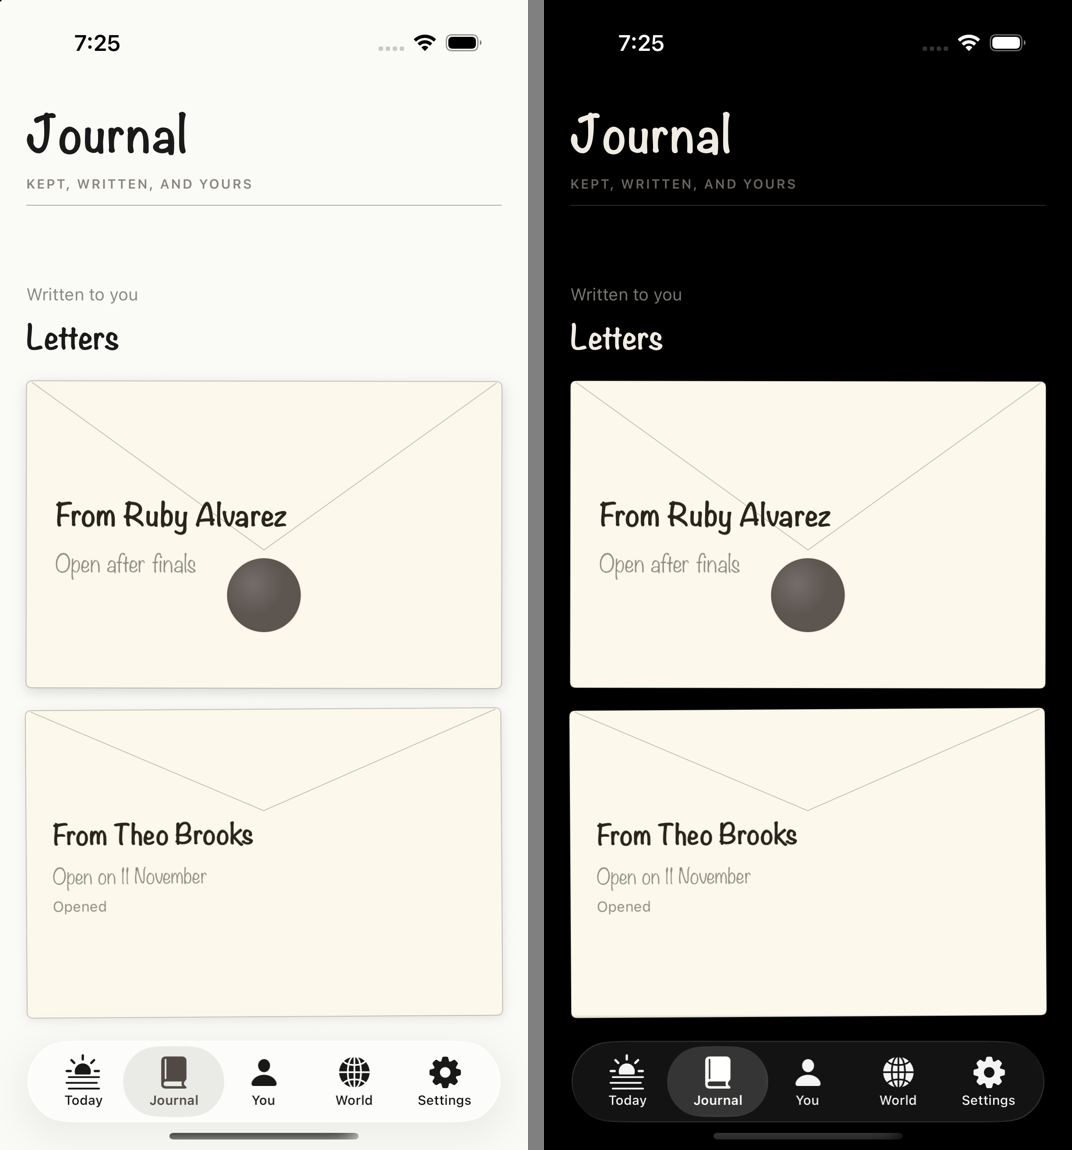
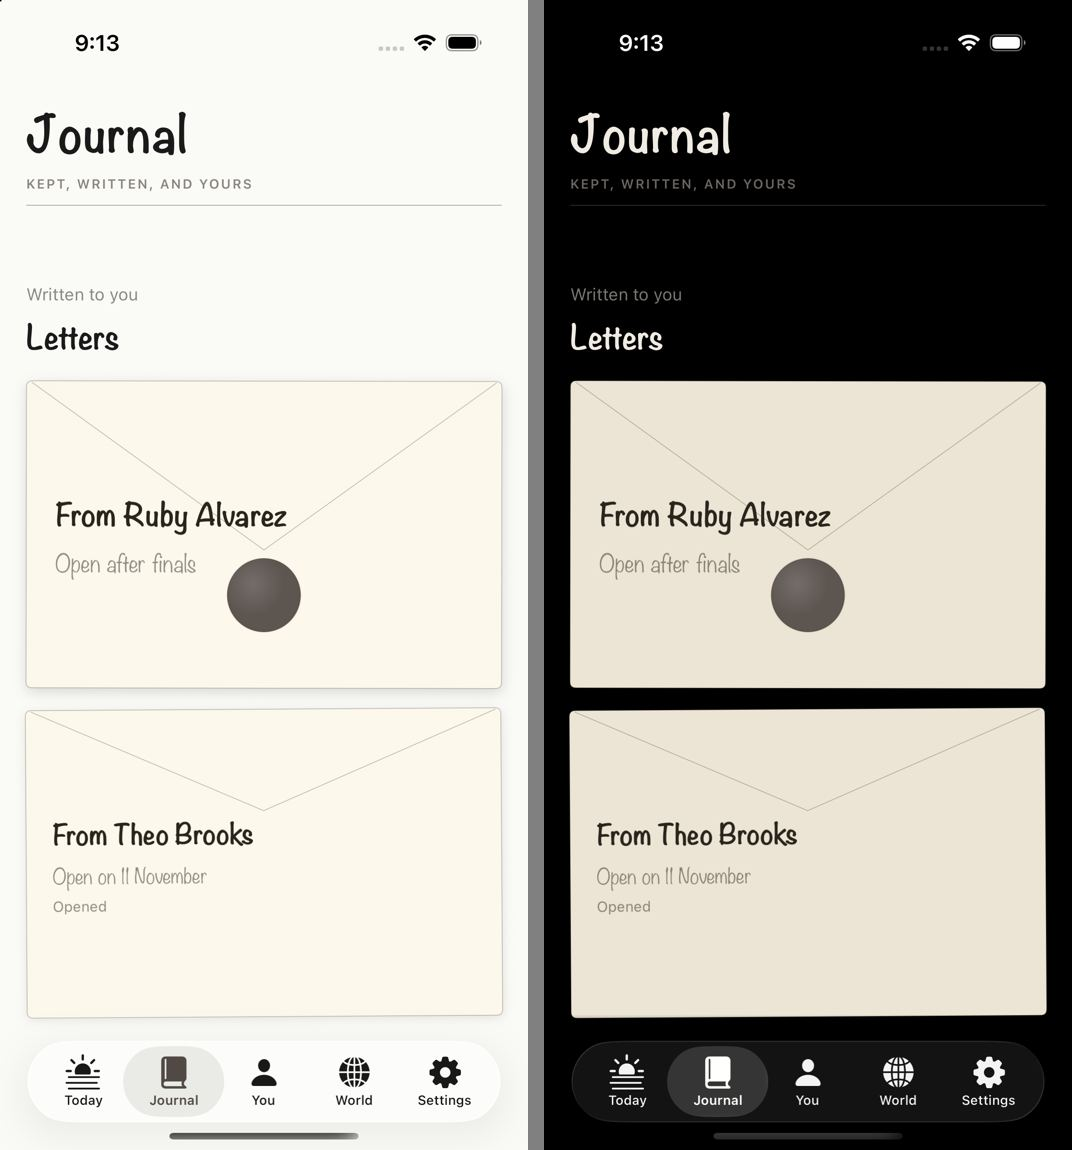
Quiet Warmth: the widget in the same look, and the rest of the screens checked
- The widget: flat floor instead of grained paper, photos straight with
  nothing round them, SF Rounded for names and labels; a hand only on the
  day's slip and a note from the board.
- Envelopes ask for the cream of the room they're in: drawn as daylight,
  they were brighter than the letter beside them in the dark.
- Setup's step dots and "Choose a photo" use the palette's accent; they
  came out the system's blue from the second step on.
- Screenshots of the screens not looked at before (stories, a member's
  profile, the opened held photo, the heart, the sealed-letter sheets,
  onboarding, setup, the circle gate, the widget, the Duo in dark), and
  CLAUDE.md says what was seen and what wasn't.

diff --git a/ios/Shared/WidgetViews.swift b/ios/Shared/WidgetViews.swift
@@ -3,9 +3,13 @@ import UIKit
 import WidgetKit
 
 // The home screen widget's three sizes (build 40), drawn from a
-// `WidgetSnapshot` at a moment. A corner of the journal left on the home
-// screen: the same paper, the same hand, the same prints, and in the dark
-// the same dark room. Nothing here reaches the network or counts anything.
+// `WidgetSnapshot` at a moment. A corner of Stanley left on the home screen,
+// in the app's own look (Quiet Warmth, build 44): the flat warm-white page
+// or the dark room's black, photos cut straight with nothing round them,
+// system type for names and labels, and a hand only where someone wrote
+// (the day's slip, a note from the board). Until build 44 it was grained
+// paper, tilted prints on photo paper, and the hand throughout. Nothing
+// here reaches the network or counts anything.
 //
 // These views are in `Shared` so a Debug build of the app can lay the three
 // sizes out on one screen to be looked at (`WidgetGallery`); the widget
@@ -16,22 +20,14 @@ enum WidgetSize {
     case small, medium, large
 }
 
-/// The page the widget is drawn on: the atmosphere's floor with the paper's
-/// grain, or the dark room's black.
+/// The page the widget is drawn on: the atmosphere's floor, flat (grained
+/// paper until build 44), or the dark room's black.
 struct WidgetBackdrop: View {
-    @Environment(\.colorScheme) private var colorScheme
     let atmosphere: String
 
     var body: some View {
-        ZStack {
-            Atmosphere.resolve(atmosphere).palette.floor
-            if colorScheme != .dark {
-                Image(uiImage: PaperGrain.tile)
-                    .resizable(resizingMode: .tile)
-                    .opacity(0.45)
-            }
-        }
-        .accessibilityHidden(true)
+        Atmosphere.resolve(atmosphere).palette.floor
+            .accessibilityHidden(true)
     }
 }
 
@@ -84,9 +80,9 @@ struct StanleyWidgetView: View {
     private var welcome: some View {
         VStack(alignment: .leading, spacing: 6) {
             Text("Stanley")
-                .font(.handFixed(size == .small ? 26 : 30, bold: true))
+                .font(.uiFixed(size == .small ? 23 : 26, .semibold))
             Text(snapshot.signedIn ? "Join a circle to begin." : "Open Stanley to see your circle.")
-                .font(.handFixed(15))
+                .font(.uiFixed(13.5))
                 .foregroundStyle(said)
                 .fixedSize(horizontal: false, vertical: true)
             Spacer(minLength: 0)
@@ -114,7 +110,7 @@ struct StanleyWidgetView: View {
                     Spacer(minLength: 4)
                 }
                 Text(phase.text)
-                    .font(.handFixed(phase.reminder == nil ? 19 : 15, bold: true))
+                    .font(.uiFixed(phase.reminder == nil ? 17 : 14, .semibold))
                     .lineLimit(phase.reminder == nil ? 3 : 2)
                     .minimumScaleFactor(0.75)
                     .fixedSize(horizontal: false, vertical: true)
@@ -127,7 +123,7 @@ struct StanleyWidgetView: View {
         } else {
             VStack(alignment: .leading, spacing: 0) {
                 Text(snapshot.circleName ?? "")
-                    .font(.handFixed(25, bold: true))
+                    .font(.uiFixed(22, .semibold))
                     .lineLimit(2)
                     .minimumScaleFactor(0.6)
                     .fixedSize(horizontal: false, vertical: true)
@@ -150,7 +146,7 @@ struct StanleyWidgetView: View {
         let print = prints.first { $0.shot.mine } ?? prints.first
         return HStack(alignment: .center, spacing: 16) {
             if let print {
-                WidgetPrint(image: print.image, takenAt: print.shot.takenAt, date: date, tilt: -3)
+                WidgetPrint(image: print.image, takenAt: print.shot.takenAt, date: date)
                     .frame(maxHeight: .infinity)
                     .padding(.vertical, 2)
                     .accessibilityLabel(print.shot.mine ? "Your photo" : "Photo by \(print.shot.name)")
@@ -187,19 +183,17 @@ struct StanleyWidgetView: View {
                 Text(snapshot.emptied(at: date)
                      ? "Nothing in the light right now."
                      : "Open Stanley to see your circle.")
-                    .font(.handFixed(17))
+                    .font(.uiFixed(15))
                     .foregroundStyle(said)
                     .frame(maxWidth: .infinity, minHeight: 120, alignment: .center)
             } else {
                 HStack(alignment: .top, spacing: 14) {
-                    ForEach(Array(prints.enumerated()), id: \.element.shot.id) { index, print in
+                    ForEach(Array(prints.enumerated()), id: \.element.shot.id) { _, print in
                         VStack(spacing: 5) {
-                            WidgetPrint(
-                                image: print.image, takenAt: print.shot.takenAt, date: date,
-                                tilt: [-2.2, 1.4, -1.2][index % 3]
-                            )
+                            WidgetPrint(image: print.image, takenAt: print.shot.takenAt, date: date)
                             Text(print.shot.mine ? "You" : print.shot.name)
-                                .font(.handFixed(14, bold: true))
+                                .font(.uiFixed(12, .medium))
+                                .foregroundStyle(quiet)
                                 .lineLimit(1)
                                 .minimumScaleFactor(0.7)
                         }
@@ -227,7 +221,7 @@ struct StanleyWidgetView: View {
         if let phase {
             caps(snapshot.circleName ?? "")
             Text(phase.text)
-                .font(.handFixed(size == .large ? 21 : 18, bold: true))
+                .font(.uiFixed(size == .large ? 19 : 16, .semibold))
                 .lineLimit(2)
                 .minimumScaleFactor(0.7)
                 .fixedSize(horizontal: false, vertical: true)
@@ -240,7 +234,7 @@ struct StanleyWidgetView: View {
             }
         } else {
             Text(snapshot.circleName ?? "")
-                .font(.handFixed(size == .large ? 26 : 22, bold: true))
+                .font(.uiFixed(size == .large ? 23 : 20, .semibold))
                 .lineLimit(1)
                 .minimumScaleFactor(0.6)
                 // The name keeps its size; a long note gives way instead.
@@ -278,7 +272,7 @@ struct StanleyWidgetView: View {
                 .frame(width: 20, height: 20)
                 .overlay(Circle().strokeBorder(palette.accent.opacity(0.7), lineWidth: 1))
             Text(posted ? "Today's moment" : "One photo waiting")
-                .font(.handFixed(15, bold: true))
+                .font(.uiFixed(13.5, .medium))
                 .lineLimit(1)
                 .minimumScaleFactor(0.8)
         }
@@ -340,19 +334,20 @@ struct StanleyWidgetView: View {
     }
 }
 
-/// A photo as a small print: 3:4 on its border of photo paper, a little
-/// crooked, faded as far as it has faded in Today. In the dark room, the
-/// photo itself, bare and straight.
+/// A photo in the widget: 3:4, cut with small corners, straight, faded as
+/// far as it has faded in Today. On the page a hairline and the faintest
+/// shadow; in the dark room nothing round it at all. (A tilted print on
+/// photo paper until build 44.)
 struct WidgetPrint: View {
     @Environment(\.colorScheme) private var colorScheme
     let image: UIImage
     let takenAt: Date
     let date: Date
-    var tilt: Double = 0
 
     var body: some View {
         let dark = colorScheme == .dark
         let fade = WidgetSnapshot.fade(takenAt, at: date)
+        let shape = RoundedRectangle(cornerRadius: 6, style: .continuous)
         Color.clear
             .aspectRatio(3.0 / 4.0, contentMode: .fit)
             .overlay {
@@ -364,11 +359,11 @@ struct WidgetPrint: View {
             .clipped()
             .saturation(1 - 0.85 * fade)
             .opacity(1 - (dark ? 0.62 : 0.82) * fade)
-            .clipShape(RoundedRectangle(cornerRadius: dark ? DarkRoom.photoCorner : PrintStock.photoCorner, style: .continuous))
-            .padding(dark ? 0 : 4)
-            .background(dark ? Color.clear : PrintStock.paper, in: RoundedRectangle(cornerRadius: 2, style: .continuous))
-            .shadow(color: .black.opacity(dark ? 0 : 0.16), radius: 3, x: 0.5, y: 1.5)
-            .rotationEffect(.degrees(dark ? 0 : tilt))
+            .clipShape(shape)
+            .overlay {
+                if !dark { shape.strokeBorder(.black.opacity(0.08), lineWidth: 0.5) }
+            }
+            .shadow(color: .black.opacity(dark ? 0 : 0.07), radius: 3, y: 1)
     }
 }
 
@@ -444,6 +439,12 @@ private extension Image {
 }
 
 extension Font {
+    /// The system's rounded face at a size that doesn't grow, for the
+    /// widget's names and labels.
+    static func uiFixed(_ size: CGFloat, _ weight: Font.Weight = .regular) -> Font {
+        .system(size: size, weight: weight, design: .rounded)
+    }
+
     /// The hand at a size that doesn't grow: a widget's room is fixed.
     static func handFixed(_ size: CGFloat, bold: Bool = false) -> Font {
         let name = bold ? "Noteworthy-Bold" : "Noteworthy-Light"

diff --git a/ios/Stanley/Letters.swift b/ios/Stanley/Letters.swift
@@ -149,7 +149,7 @@ private struct MiniEnvelope: View {
         let accent = Atmosphere.resolve(raw).palette.accent
         return ZStack {
             RoundedRectangle(cornerRadius: 2, style: .continuous)
-                .fill(Cream.paper)
+                .fill(Cream.paper(colorScheme))
                 .overlay(
                     RoundedRectangle(cornerRadius: 2, style: .continuous)
                         .stroke(Cream.ink.opacity(0.28), lineWidth: 0.5)
@@ -238,7 +238,7 @@ struct SealedEnvelopeView: View {
                 // The whole front, filled: filling the shape itself left
                 // the flap's V as a hole the page showed through.
                 RoundedRectangle(cornerRadius: 4, style: .continuous)
-                    .fill(Cream.paper)
+                    .fill(Cream.paper(colorScheme))
                     .overlay(
                         EnvelopeShape(flapOpen: 0, flapAngle: 0)
                             .stroke(Cream.ink.opacity(0.28), lineWidth: 0.6)
@@ -322,7 +322,7 @@ struct OpenedEnvelopeView: View {
                 // The whole front, filled: filling the shape itself left
                 // the flap's V as a hole the page showed through.
                 RoundedRectangle(cornerRadius: 4, style: .continuous)
-                    .fill(Cream.paper)
+                    .fill(Cream.paper(colorScheme))
                     .overlay(
                         EnvelopeShape(flapOpen: 1, flapAngle: 24)
                             .stroke(Cream.ink.opacity(0.28), lineWidth: 0.6)
@@ -501,7 +501,7 @@ struct LetterReaderSheet: View {
             // The whole front, filled: filling the shape itself left the
             // flap's V as a hole the page showed through.
             RoundedRectangle(cornerRadius: 4, style: .continuous)
-                .fill(Cream.paper)
+                .fill(Cream.paper(colorScheme))
                 .overlay(
                     EnvelopeShape(flapOpen: flapOpen, flapAngle: flapAngle)
                         .stroke(Cream.ink.opacity(0.28), lineWidth: 0.7)

diff --git a/ios/Stanley/SetupView.swift b/ios/Stanley/SetupView.swift
@@ -19,6 +19,7 @@ struct SetupView: View {
     @Environment(AppState.self) private var state
     @Environment(\.horizontalSizeClass) private var hSizeClass
     private var density: Density { Density(hSizeClass) }
+    @AppStorage("stanley.atmosphere") private var raw = "auto"
 
     @State private var step: Step = .name
     @State private var name = ""
@@ -186,7 +187,7 @@ struct SetupView: View {
             AvatarChooser {
                 Label(hasPhoto ? "Choose another" : "Choose a photo", systemImage: "photo.on.rectangle")
                     .font(.subheadline.weight(.semibold))
-                    .foregroundStyle(Color.accentColor)
+                    .foregroundStyle(Atmosphere.resolve(raw).palette.accent)
                     .frame(minHeight: 44)
             }
         }
@@ -294,13 +295,18 @@ struct SetupView: View {
 /// Where setup is: four small marks, the ones done and the one here filled.
 /// A sense of place, not a score.
 private struct Dots: View {
+    @AppStorage("stanley.atmosphere") private var raw = "auto"
     let step: SetupView.Step
 
     var body: some View {
+        // The palette's accent, said outright: `Color.accentColor` came out
+        // the system's blue from the second step on (seen on iOS 26.5,
+        // build 44), though the first step had the tint.
+        let accent = Atmosphere.resolve(raw).palette.accent
         HStack(spacing: 6) {
             ForEach(SetupView.Step.allCases, id: \.self) { each in
                 Capsule()
-                    .fill(each.rawValue <= step.rawValue ? Color.accentColor : Color.secondary.opacity(0.3))
+                    .fill(each.rawValue <= step.rawValue ? accent : Color.secondary.opacity(0.3))
                     .frame(width: each == step ? 22 : 8, height: 8)
             }
         }

diff --git a/ios/Stanley/Journal.swift b/ios/Stanley/Journal.swift
@@ -109,11 +109,18 @@ enum PhotoCut {
 
 /// Cream paper, and the ink on it.
 enum Cream {
-    static let paper = Color(UIColor { traits in
-        traits.userInterfaceStyle == .dark
-            ? UIColor(red: 0.925, green: 0.895, blue: 0.83, alpha: 1)   // under a lamp
-            : UIColor(red: 0.992, green: 0.972, blue: 0.925, alpha: 1)  // #FDF8EC
-    })
+    private static let day = UIColor(red: 0.992, green: 0.972, blue: 0.925, alpha: 1)   // #FDF8EC
+    private static let lamp = UIColor(red: 0.925, green: 0.895, blue: 0.83, alpha: 1)   // under a lamp
+
+    static let paper = Color(UIColor { $0.userInterfaceStyle == .dark ? lamp : day })
+
+    /// The paper for a room said outright. Anything drawn `onCream()` is
+    /// resolved as in daylight, so an envelope that fills itself with
+    /// `paper` came out brighter in the dark than the letter beside it;
+    /// it asks for the room it's really in.
+    static func paper(_ scheme: ColorScheme) -> Color {
+        Color(scheme == .dark ? lamp : day)
+    }
     static let ink = Color(red: 0.16, green: 0.14, blue: 0.11)
 }
 

diff --git a/ios/Stanley/CircleLetters.swift b/ios/Stanley/CircleLetters.swift
@@ -166,7 +166,7 @@ struct EnvelopeMark: View {
             let dark = DarkRoom.isDark(colorScheme)
             // Cream paper in both rooms: an envelope keeps its materiality
             // on the black (build 44).
-            let paper: Color = Cream.paper
+            let paper: Color = Cream.paper(colorScheme)
             let line = Cream.ink.opacity(0.72)
             let stroke = StrokeStyle(lineWidth: max(1, width / 56), lineCap: .round, lineJoin: .round)
             let pocket = RoundedRectangle(cornerRadius: width / 36, style: .continuous)

diff --git a/CLAUDE.md b/CLAUDE.md
@@ -383,19 +383,44 @@ Backend and iOS unless noted. All guarded by the test suite where testable.
     on the page's floor with nothing scrolling under it (`SolidTabBar`,
     builds 31 and 39). It is the system's glass bar; letting photos
     scroll under it is what lost the selected tab's ink twice.
+  - **The widget is in the same look** (a second pass the same day,
+    `WidgetViews.swift`): the flat floor instead of grained paper, photos
+    straight with 6pt corners and nothing round them (a hairline and faint
+    shadow on the page), and SF Rounded for the circle's name, the
+    countdown's words, the names under photos and the status line. A hand
+    is left only where someone wrote: the day's slip and a note from the
+    board. The clock keeps its cards and hand-lettered labels, and build
+    41's ink strengths are as they were. Seen in the Debug gallery
+    (`STANLEY_WIDGET_GALLERY=1`), light and dark, not on a Home Screen.
+  - **Also fixed in that second pass.** Envelopes were brighter than the
+    letter beside them in the dark: anything drawn `onCream()` resolves as
+    daylight, so an envelope filling itself with `Cream.paper` got the
+    daylight cream; they ask for `Cream.paper(colorScheme)` now. Setup's
+    step dots (and "Choose a photo") came out the system's blue from the
+    second step on, where `Color.accentColor` had lost the tint; they use
+    the palette's accent outright.
   - **Checked on the iPhone 17 Pro simulator**, light and dark, against
     the screenshot circle: Today (top, photos, own photo with the journal
     slip, empty, day marks), writing a note, capture before and after the
-    shutter and a real post, the Journal tab top to bottom, You, World,
-    Settings, Rain in both modes, the answers sheet, the circle journal,
-    the circle-letter writing sheet, and opened circle letters (server
-    clock moved to December). **On the Duo's cover display**: Today,
-    Journal and You, light only. **Not seen:** a real phone, the Duo's
-    inner display (the simulator can't unfold), VoiceOver, Dynamic Type
-    at large sizes, the stories sheet, a member's profile, the opened
-    held photo, the sealed-letter reader and compose sheets, onboarding,
-    the circle gate, the heart animation itself, and the widget on a Home
-    Screen with the new palettes (it compiles against them).
+    shutter and a real post, the Journal tab top to bottom, You top and
+    foot, World, Settings, Rain in both modes, the answers sheet, the
+    circle journal, the circle-letter writing sheet, opened circle letters
+    (server clock moved to December), the stories sheet, a member's
+    profile, the sealed-letter reader and compose sheets, and the widget
+    gallery. In light only: the opened held photo (it's black in either
+    mode), and the double-tap heart, caught mid-fade in a frame (one white
+    heart, no burst). **On a fresh install on the iPhone 17 simulator**,
+    light and dark: onboarding's first and last pages, setup's name step,
+    and the circle gate; setup's other three steps in light. **On the
+    Duo's cover display**: Today, Journal and You in light, Today in dark.
+    **Not seen:** a real phone, the Duo's inner display (the simulator
+    can't unfold), VoiceOver, Dynamic Type at large sizes, and the widget
+    on a real Home Screen.
+  - **Seen and left** (not this pass's doing): on setup's "Write a little
+    about yourself" step with the keyboard up, Skip is under the keyboard
+    and the back button sits over the step dots (iPhone 17); and on the
+    Duo's cover the note row and the You tab's Invite ring run under the
+    side dock at their trailing end.
   - **Stale because of this:** every App Store screenshot in
     `ios/AppStoreScreenshots/` and the plan in `APP_STORE_METADATA.md`
     (whose description lost its filters sentence).
